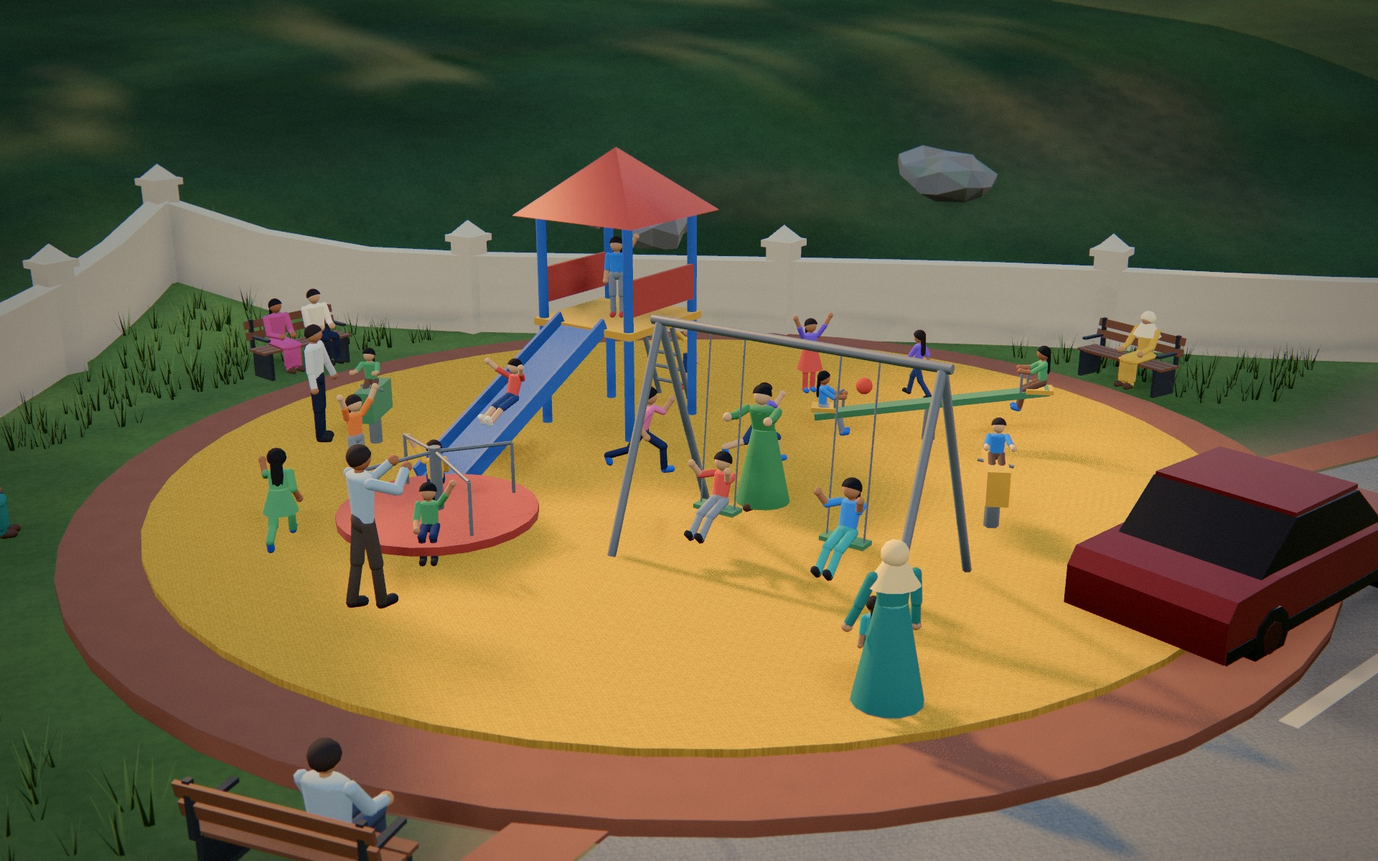
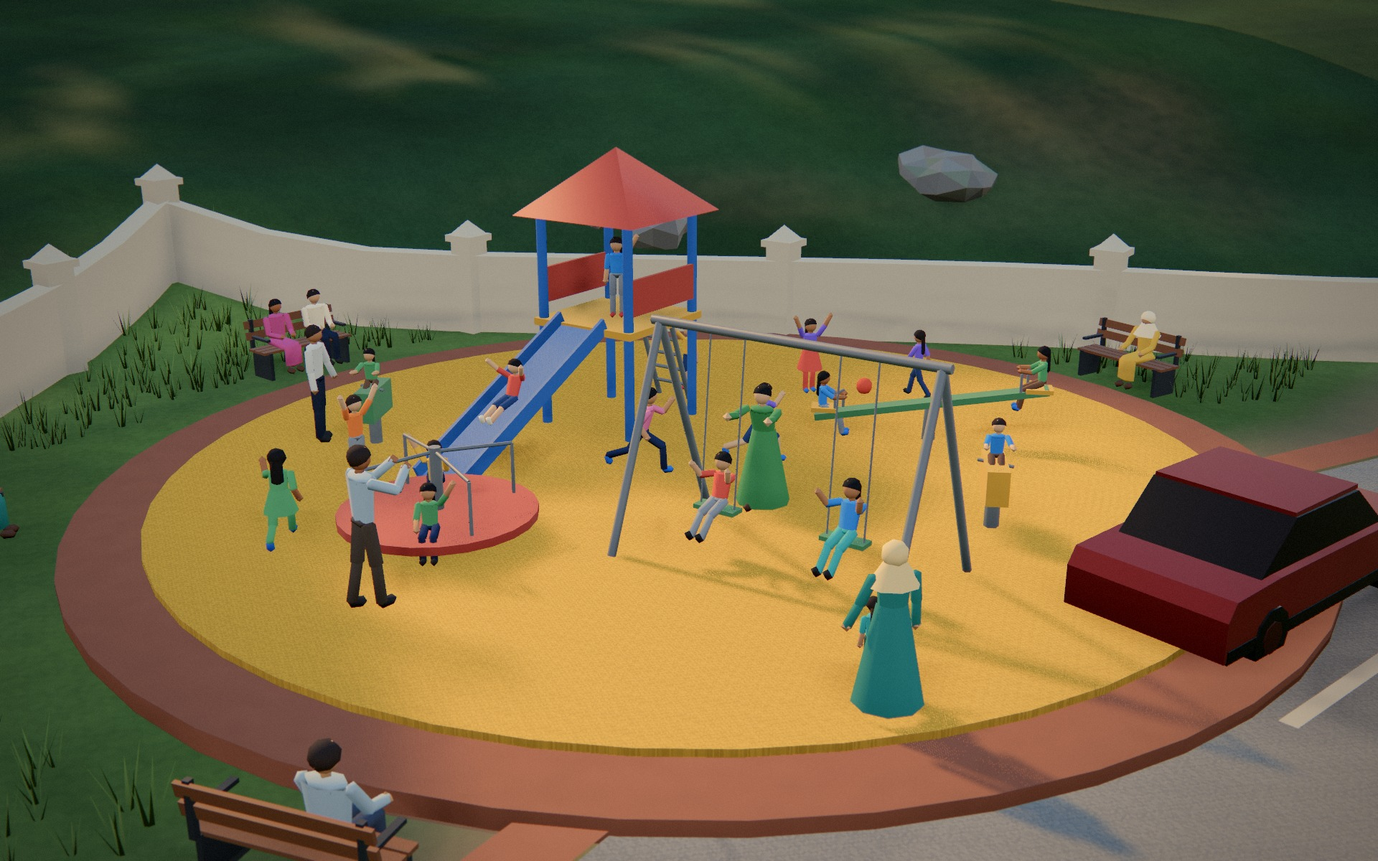
H3: make the people figures light
- people.js: limbs are five-sided spindles (20 triangles) instead of
  capsules; smaller spheres for heads, hair and scarves; octahedron
  hands; open-ended skirts and trunks.
- Far figures (seated guests on the upper tiers and walkway benches)
  drop hands, feet, neck and shoulder piece: about 250 triangles each.
- Legs hidden under a dress are no longer built.
- Lighter flower arch, flat petals, fewer segments on the bride's
  veil, train, trim and bouquet.
- Positions rounded to the millimetre; each place is stored indexed.
- 334,000 -> 38,026 triangles; about 343 KB gzipped once H4 drops the
  stored normals at export (accepted in place of 150 KB, Decision 6).
- people-preview: prints triangles, vertices and the download cost.
- Both approval images re-rendered; Plan 4 has the H3 notes.

diff --git a/src/model/people.js b/src/model/people.js
@@ -1,12 +1,16 @@
 import * as THREE from 'three';
 import { FEATURES, PADS, toY } from './layout.js';
-import { merge, prep, paint, mulberry32 } from './geom.js';
+import { merge, prep, paint, mulberry32, mergeVertices } from './geom.js';
 
 /**
  * People, for life and scale: children at the play equipment (with a few parents), and a wedding in the
  * amphitheatre (bride and groom on the stage, family beside them, guests on the tiers).
- * Each figure is posed from a few joint angles and built from capsules; all figures of one place are merged
- * into a single vertex-coloured mesh. Local frame of a figure: feet at y = 0, facing +Z.
+ * Each figure is posed from a few joint angles and built from low-poly parts (five-sided spindles for limbs, small
+ * spheres for heads); all figures of one place are merged into one indexed, vertex-coloured mesh.
+ * Local frame of a figure: feet at y = 0, facing +Z.
+ *
+ * Weight (Plan 4, H3): a near figure is about 400 triangles, a far one (`far: true`, seated guests on the upper tiers)
+ * about 250: far figures have no hands, feet or neck and four-sided limbs.
  */
 const SKIN = [0xc68e63, 0xb57a50, 0xd3a077, 0xa9683f, 0xddb08a];
 const HAIR = [0x17120f, 0x241a14, 0x2e2018, 0x0f0d0c];
@@ -21,13 +25,29 @@ const pick = (rand, list) => list[Math.floor(rand() * list.length)];
 const part = (g, color) => paint(prep(g), color);
 const Y = new THREE.Vector3(0, 1, 0);
 
-/** Capsule from a to b (arrays), radius r; sx widens it sideways (for torsos). */
-function limb(a, b, r, color, sx = 1, sz = 1) {
-  return span(a, b, (len) => new THREE.CapsuleGeometry(r, len, 2, 7), color, sx, sz);
+/**
+ * Spindle along Y: an n-sided tube of length len with a low point at each end (r * 0.75 beyond the end), smooth
+ * normals. 4n triangles: the cheap stand-in for a capsule (a three.js capsule with the fewest segments is 50).
+ */
+function spindle(r, len, n) {
+  const pos = [0, -len / 2 - r * 0.75, 0], idx = [];
+  for (const y of [-len / 2, len / 2]) for (let i = 0; i < n; i++) { const t = (i / n) * Math.PI * 2; pos.push(r * Math.sin(t), y, r * Math.cos(t)); }
+  pos.push(0, len / 2 + r * 0.75, 0);
+  const top = 2 * n + 1, B = (i) => 1 + (i % n), T = (i) => 1 + n + (i % n);
+  for (let i = 0; i < n; i++) idx.push(0, B(i + 1), B(i), B(i), B(i + 1), T(i + 1), B(i), T(i + 1), T(i), top, T(i), T(i + 1));
+  const g = new THREE.BufferGeometry();
+  g.setAttribute('position', new THREE.Float32BufferAttribute(pos, 3));
+  g.setIndex(idx);
+  g.computeVertexNormals(); // while still indexed, so the shading stays smooth after prep()
+  return g;
 }
-/** Tapered trunk from a (radius ra) to b (radius rb): chests and waists. */
-function trunk(a, b, ra, rb, color, sx = 1, sz = 1) {
-  return span(a, b, (len) => new THREE.CylinderGeometry(rb, ra, len, 9, 1), color, sx, sz);
+/** Limb from a to b (arrays), radius r, n sides; sx / sz widen it (for hips, laps and hair). */
+function limb(a, b, r, color, sx = 1, sz = 1, n = 5) {
+  return span(a, b, (len) => spindle(r, len, n), color, sx, sz);
+}
+/** Tapered trunk from a (radius ra) to b (radius rb): chests and waists. Open ends unless closed (far figures). */
+function trunk(a, b, ra, rb, color, sx = 1, sz = 1, closed = false) {
+  return span(a, b, (len) => new THREE.CylinderGeometry(rb, ra, len, 6, 1, !closed), color, sx, sz);
 }
 function span(a, b, make, color, sx, sz) {
   const A = new THREE.Vector3().fromArray(a), B = new THREE.Vector3().fromArray(b), d = B.clone().sub(A), len = d.length();
@@ -37,7 +57,8 @@ function span(a, b, make, color, sx, sz) {
   g.translate((A.x + B.x) / 2, (A.y + B.y) / 2, (A.z + B.z) / 2);
   return part(g, color);
 }
-const ball = (c, r, color, s = [1, 1, 1]) => part(new THREE.SphereGeometry(r, 10, 8).scale(...s).translate(...c), color);
+const ball = (c, r, color, s = [1, 1, 1], w = 6, h = 4) => part(new THREE.SphereGeometry(r, w, h).scale(...s).translate(...c), color);
+const gem = (c, r, color) => part(new THREE.OctahedronGeometry(r, 0).translate(...c), color); // 8 triangles: hands, small flowers
 
 const POSES = {
   stand: {},
@@ -66,11 +87,12 @@ const POSES = {
 
 /**
  * One figure. o: { h, pose, skin, hair, top, bottom, shoes, sleeves ('short' | 'long'), skirt (hem radius, 0 = none),
- * skirtColor, scarf (colour), longHair, child, extras(parts, joints) }.
+ * skirtColor, scarf (colour), longHair, bun, female, child, far, extras(parts, joints) }.
  */
 function figure(o) {
   const H = o.h, p = { ...POSES.stand, ...(typeof o.pose === 'string' ? POSES[o.pose] : o.pose) };
-  const child = o.child, parts = [];
+  const child = o.child, far = !!o.far, parts = [], n = far ? 4 : 5;
+  const seg = (a, b, r, color, sx, sz) => limb(a, b, r, color, sx, sz, n);
   const headR = H * (child ? 0.082 : 0.066), limbR = H * (child ? 0.034 : 0.031);
   const thigh = H * 0.245, shin = H * 0.235, torsoLen = H * (child ? 0.27 : 0.29), hipW = H * 0.055, shoulderW = H * (child ? 0.105 : 0.118);
   const upper = H * 0.165, fore = H * 0.15;
@@ -84,41 +106,44 @@ function figure(o) {
   const longSkirt = o.skirt && !p.sit;
 
   // legs
+  const lap = o.skirt && p.sit && !child; // seated in a dress: one piece over the lap and shins (below) replaces the legs
   legs.forEach(([t, k], i) => {
     const x = (i ? 1 : -1) * hipW, s = t - k;
     const hip = [x, pelvisY, 0], knee = [x, hip[1] - thigh * Math.cos(t), thigh * Math.sin(t)];
     const ankle = [x, knee[1] - shin * Math.cos(s), knee[2] + shin * Math.sin(s)];
     const legColor = o.skirt ? (o.skirtColor ?? o.bottom) : o.bottom;
-    parts.push(limb(hip, knee, limbR * 1.35, legColor), limb(knee, ankle, limbR * 1.1, o.skirt && !o.child ? legColor : (o.shorts ? o.skin : legColor)));
+    if (!lap && !longSkirtHidesLegs(o, p)) parts.push(seg(hip, knee, limbR * 1.35, legColor), seg(knee, ankle, limbR * 1.1, o.skirt && !o.child ? legColor : (o.shorts ? o.skin : legColor)));
+    if (far) return;
     const toe = [x, ankle[1] + Math.sin(s) * H * 0.07 - limbR * 0.2, ankle[2] + Math.cos(s) * H * 0.07];
-    parts.push(limb([x, ankle[1] - limbR * 0.3, ankle[2]], toe, limbR * 1.05, o.shoes ?? 0x2a2622));
+    parts.push(limb([x, ankle[1] - limbR * 0.3, ankle[2]], toe, limbR * 1.05, o.shoes ?? 0x2a2622, 1, 1, 4));
   });
-  if (o.skirt && p.sit && !child) { // seated in a dress: one piece over the lap and down the shins, instead of two trouser legs
+  if (lap) {
     const [t, k] = legs[0], s = t - k, c = o.skirtColor ?? o.bottom;
     const knee = [0, pelvisY - thigh * Math.cos(t), thigh * Math.sin(t)], hem = [0, knee[1] - shin * 0.8 * Math.cos(s), knee[2] + shin * 0.8 * Math.sin(s)];
-    parts.push(limb([0, pelvisY, -limbR], knee, limbR * 1.5, c, 2.5, 1), limb(knee, hem, limbR * 1.35, c, 2.5, 1));
+    parts.push(seg([0, pelvisY, -limbR], knee, limbR * 1.5, c, 2.5, 1), seg(knee, hem, limbR * 1.35, c, 2.5, 1));
   }
-  if (longSkirt) { // dress or gown: a cone from the waist to the hem
+  if (longSkirt) { // dress or gown: a cone from the waist to the hem (open at both ends: the waist and the ground hide them)
     const top = pelvisY + H * 0.1, hem = o.skirtHem ?? H * 0.05, r = o.skirt;
-    parts.push(part(new THREE.CylinderGeometry(H * 0.085, r, top - hem, 14, 1).translate(0, (top + hem) / 2, r * 0.06), o.skirtColor ?? o.bottom));
+    parts.push(part(new THREE.CylinderGeometry(H * 0.085, r, top - hem, r > 0.4 ? 14 : 9, 1, true).translate(0, (top + hem) / 2, r * 0.06), o.skirtColor ?? o.bottom));
   }
 
   // torso, neck, head
   const waist = [0, pelvisY + H * 0.02, 0];
   const wide = child ? 1.3 : o.female ? 1.38 : 1.62, chest = [neck[0], neck[1] - H * 0.03, neck[2]];
-  parts.push(trunk(waist, chest, H * (child ? 0.064 : 0.058), H * 0.073, o.top, wide, 0.84));          // narrower at the waist
-  parts.push(ball(chest, H * 0.073, o.top, [wide, 0.5, 0.84]));                                           // rounded shoulders
-  parts.push(limb(pelvis, waist, H * 0.064, o.skirt ? (o.skirtColor ?? o.bottom) : o.bottom, o.female ? 1.55 : 1.35, 0.95));
+  parts.push(trunk(waist, chest, H * (child ? 0.064 : 0.058), H * 0.073, o.top, wide, 0.84, far));     // narrower at the waist
+  if (!far) parts.push(ball(chest, H * 0.073, o.top, [wide, 0.5, 0.84], 6, 3));                          // rounded shoulders
+  parts.push(seg(pelvis, waist, H * 0.064, o.skirt ? (o.skirtColor ?? o.bottom) : o.bottom, o.female ? 1.55 : 1.35, 0.95));
   const head = [0, neck[1] + headR * 1.25, neck[2] + headR * 0.12];
-  parts.push(limb(neck, [head[0], head[1] - headR * 0.5, head[2]], headR * 0.42, o.skin));
-  parts.push(ball(head, headR, o.skin, [0.92, 1.1, 0.98]));
+  if (!far) parts.push(limb(neck, [head[0], head[1] - headR * 0.5, head[2]], headR * 0.42, o.skin, 1, 1, 4));
+  parts.push(far ? ball(head, headR, o.skin, [0.92, 1.1, 0.98], 6, 4) : ball(head, headR, o.skin, [0.92, 1.1, 0.98], 7, 5));
+  const cap = (r, w, h, theta) => new THREE.SphereGeometry(r, w, h, 0, Math.PI * 2, 0, theta);
   if (o.scarf) { // head scarf: covers the hair and drapes over the shoulders
-    parts.push(part(new THREE.SphereGeometry(headR * 1.13, 12, 8, 0, Math.PI * 2, 0, 2.15).rotateX(-0.62).translate(head[0], head[1] + headR * 0.05, head[2] - headR * 0.06), o.scarf));
-    parts.push(part(new THREE.CylinderGeometry(headR * 0.95, shoulderW * 1.25, H * 0.13, 12, 1).scale(1, 1, 0.8).translate(neck[0], neck[1] - H * 0.02, neck[2]), o.scarf));
+    parts.push(part(cap(headR * 1.13, far ? 6 : 8, far ? 3 : 4, 2.15).rotateX(-0.62).translate(head[0], head[1] + headR * 0.05, head[2] - headR * 0.06), o.scarf));
+    parts.push(part(new THREE.CylinderGeometry(headR * 0.95, shoulderW * 1.25, H * 0.13, far ? 6 : 8, 1, true).scale(1, 1, 0.8).translate(neck[0], neck[1] - H * 0.02, neck[2]), o.scarf));
   } else {
-    parts.push(part(new THREE.SphereGeometry(headR * 1.07, 12, 8, 0, Math.PI * 2, 0, 1.75).rotateX(-0.5).translate(head[0], head[1] + headR * 0.08, head[2] - headR * 0.04), o.hair));
-    if (o.bun) parts.push(ball([0, head[1] + headR * 0.25, head[2] - headR * 0.95], headR * 0.5, o.hair));
-    else if (o.longHair) parts.push(limb([0, head[1], head[2] - headR * 0.75], [0, neck[1] - H * 0.12, neck[2] - H * 0.06], headR * 0.55, o.hair, 1.25, 0.6));
+    parts.push(part(cap(headR * 1.07, far ? 6 : 8, far ? 2 : 3, 1.75).rotateX(-0.5).translate(head[0], head[1] + headR * 0.08, head[2] - headR * 0.04), o.hair));
+    if (o.bun) parts.push(ball([0, head[1] + headR * 0.25, head[2] - headR * 0.95], headR * 0.5, o.hair, [1, 1, 1], 5, 3));
+    else if (o.longHair) parts.push(limb([0, head[1], head[2] - headR * 0.75], [0, neck[1] - H * 0.12, neck[2] - H * 0.06], headR * 0.55, o.hair, 1.25, 0.6, 4));
   }
 
   // arms
@@ -130,12 +155,25 @@ function figure(o) {
     const u = dir(sw + lean, 0), f = dir(sw + bend + lean, inward);
     const elbow = [sh[0] + u.x * upper, sh[1] + u.y * upper, sh[2] + u.z * upper];
     const wrist = [elbow[0] + f.x * fore, elbow[1] + f.y * fore, elbow[2] + f.z * fore];
-    parts.push(limb(sh, elbow, limbR * 1.05, o.top), limb(elbow, wrist, limbR * 0.9, o.sleeves === 'long' ? o.top : o.skin));
-    parts.push(ball(wrist, limbR * 1.05, o.skin));
+    parts.push(seg(sh, elbow, limbR * 1.05, o.top), seg(elbow, wrist, limbR * 0.9, o.sleeves === 'long' ? o.top : o.skin));
+    if (!far) parts.push(gem(wrist, limbR * 1.15, o.skin));
     hands.push(wrist);
   });
   o.extras?.(parts, { H, head, headR, neck, pelvisY, hands, shoulderW });
   return merge(parts);
+}
+
+/** A standing adult in a full-length dress: the cone hides the thighs and shins, so they are not built. */
+function longSkirtHidesLegs(o, p) { return o.skirt && !p.sit && !o.child && (o.skirtHem ?? o.h * 0.05) <= o.h * 0.06 && !p.lean && !p.legL; }
+
+/**
+ * Last step for one place: positions rounded to the millimetre (they compress far better in the model file and the
+ * error is invisible), then shared vertices merged so the geometry is stored indexed.
+ */
+function finish(geo) {
+  const a = geo.attributes.position.array;
+  for (let i = 0; i < a.length; i++) a[i] = Math.round(a[i] * 1000) / 1000;
+  return mergeVertices(geo);
 }
 
 /** Places a figure geometry: seat/foot point [x, y, z] and heading (yaw 0 = facing +Z). */
@@ -203,7 +241,7 @@ function playPeople(rand, benches) {
   put(list, kid(rand, 'run', { h: 1.22 }), [0.45, G, -0.75], 2.3);
   put(list, kid(rand, 'cheer', { h: 1.18 }), [-0.6, G, -3.9], 0.9);
   put(list, kid(rand, 'walk', { h: 1.1 }), [0.9, G, -4.6], -1.6);
-  list.push(part(new THREE.SphereGeometry(0.13, 12, 8).translate(0.15, G + 0.13, -4.3), 0xe8462f));
+  list.push(ball([0.15, G + 0.13, -4.3], 0.13, 0xe8462f, [1, 1, 1], 8, 5));
   // toddler holding a parent's hand, and a parent taking a photo
   put(list, woman(rand, 'holdDown'), [4.85, G, 4.1], -2.3);          // clear of the swing frame's leg
   put(list, kid(rand, 'reachUp', { h: 0.86 }), [4.5, G, 3.75], -2.3);
@@ -213,7 +251,7 @@ function playPeople(rand, benches) {
   benches.forEach((b, i) => {
     for (const [off, who] of seats[i % seats.length]) sitOnBench(list, who(rand, pick(rand, ['sit', 'sitLap', 'sitWave'])), b, off);
   });
-  return merge(list);
+  return finish(merge(list));
 }
 
 // ---------- wedding in the amphitheatre ----------
@@ -225,12 +263,13 @@ function weddingPeople(rand) {
     h: 1.6, pose: 'bouquet', skin: SKIN[2], hair: HAIR[0], top: IVORY, bottom: IVORY, sleeves: 'long', skirt: 0.52, skirtHem: 0.0, skirtColor: IVORY, scarf: 0xfbf7ee,
     extras(parts, j) {
       // veil down the back, train on the floor, gold trim at the hem and a bouquet in the hands
-      parts.push(part(new THREE.CylinderGeometry(j.headR * 0.9, 0.42, 1.25, 12, 1, true).scale(1, 1, 0.5).translate(0, j.head[1] - 0.58, j.head[2] - 0.2), 0xfdfaf2));
-      parts.push(part(new THREE.CylinderGeometry(0.3, 0.75, 0.05, 14).scale(1, 1, 1.5).translate(0, 0.03, -0.75), IVORY));
-      parts.push(part(new THREE.TorusGeometry(0.52, 0.02, 5, 20).rotateX(Math.PI / 2).translate(0, 0.04, 0.03), GOLD));
+      parts.push(part(new THREE.CylinderGeometry(j.headR * 0.9, 0.42, 1.25, 10, 1, true).scale(1, 1, 0.5).translate(0, j.head[1] - 0.58, j.head[2] - 0.2), 0xfdfaf2));
+      parts.push(part(new THREE.CylinderGeometry(0.3, 0.75, 0.05, 12, 1, true).scale(1, 1, 1.5).translate(0, 0.03, -0.75), IVORY));
+      parts.push(part(new THREE.CircleGeometry(0.3, 12).rotateX(-Math.PI / 2).scale(1, 1, 1.5).translate(0, 0.055, -0.75), IVORY));
+      parts.push(part(new THREE.TorusGeometry(0.52, 0.02, 3, 16).rotateX(Math.PI / 2).translate(0, 0.04, 0.03), GOLD));
       const b = [(j.hands[0][0] + j.hands[1][0]) / 2, j.hands[0][1] + 0.04, j.hands[0][2] + 0.05];
-      for (const [dx, dy, dz, c] of [[0, 0.03, 0, 0xd9304a], [0.06, 0, 0.02, 0xf4e9e2], [-0.06, 0, 0.02, 0xf07a9a], [0, -0.03, 0.05, 0xf4e9e2], [0.02, 0.06, 0.04, 0xf07a9a]]) parts.push(ball([b[0] + dx, b[1] + dy, b[2] + dz], 0.055, c));
-      parts.push(ball([b[0], b[1] - 0.06, b[2]], 0.07, 0x3d7a44));
+      for (const [dx, dy, dz, c] of [[0, 0.03, 0, 0xd9304a], [0.06, 0, 0.02, 0xf4e9e2], [-0.06, 0, 0.02, 0xf07a9a], [0, -0.03, 0.05, 0xf4e9e2], [0.02, 0.06, 0.04, 0xf07a9a]]) parts.push(gem([b[0] + dx, b[1] + dy, b[2] + dz], 0.06, c));
+      parts.push(gem([b[0], b[1] - 0.06, b[2]], 0.075, 0x3d7a44));
     },
   });
   put(list, bride, [-0.42, S, -1.9], Math.PI);
@@ -239,18 +278,18 @@ function weddingPeople(rand) {
     extras(parts, j) { // shirt front, tie and a buttonhole flower
       parts.push(part(new THREE.BoxGeometry(0.1, 0.3, 0.03).translate(0, j.neck[1] - 0.2, 0.105), 0xf7f5ef));
       parts.push(part(new THREE.BoxGeometry(0.035, 0.26, 0.035).translate(0, j.neck[1] - 0.2, 0.115), 0x8c1c2c));
-      parts.push(ball([-0.11, j.neck[1] - 0.13, 0.11], 0.03, 0xf4e9e2));
+      parts.push(gem([-0.11, j.neck[1] - 0.13, 0.11], 0.035, 0xf4e9e2));
     },
   });
   put(list, groom, [0.42, S, -1.9], Math.PI);
 
   // flower arch on the backdrop behind the couple, petals on the aisle
   const flowers = [0xf4e9e2, 0xf07a9a, 0xd9304a, 0xf6c7d2, 0x4f8f56];
-  for (let i = 0; i <= 40; i++) {
-    const t = i / 40, a = Math.PI * t, x = Math.cos(a) * 1.75, y = S + 0.2 + Math.sin(a) * 3.0;
-    for (let k = 0; k < 3; k++) list.push(ball([x + (rand() - 0.5) * 0.22, y + (rand() - 0.5) * 0.22, -0.42 + (rand() - 0.5) * 0.16], 0.09 + rand() * 0.06, pick(rand, flowers)));
+  for (let i = 0; i <= 38; i++) { // 20-triangle blooms, two at each step round the arch
+    const t = i / 38, a = Math.PI * t, x = Math.cos(a) * 1.75, y = S + 0.2 + Math.sin(a) * 3.0;
+    for (let k = 0; k < 2; k++) list.push(part(new THREE.IcosahedronGeometry(0.12 + rand() * 0.06, 0).translate(x + (rand() - 0.5) * 0.24, y + (rand() - 0.5) * 0.24, -0.42 + (rand() - 0.5) * 0.16), pick(rand, flowers)));
   }
-  for (let i = 0; i < 70; i++) list.push(part(new THREE.CylinderGeometry(0.045, 0.045, 0.012, 5).translate((rand() - 0.5) * 1.3, S + 0.01, -2.4 - rand() * 1.6), pick(rand, flowers)));
+  for (let i = 0; i < 70; i++) list.push(part(new THREE.CircleGeometry(0.045, 5).rotateX(-Math.PI / 2).translate((rand() - 0.5) * 1.3, S + 0.012, -2.4 - rand() * 1.6), pick(rand, flowers)));
 
   // family beside the couple, flower girls in front, a photographer
   put(list, woman(rand, 'stand', { scarf: 0xe6cf9a }), [-1.75, S, -1.6], Math.PI - 0.35);
@@ -273,7 +312,8 @@ function weddingPeople(rand) {
       const turned = rand() < 0.14 ? (rand() < 0.5 ? -0.6 : 0.6) : 0;        // a few are talking to a neighbour
       const yaw = Math.atan2(-x, -z - 0.57) + (rand() - 0.5) * 0.25 + turned; // towards the couple
       const q = rand(), pose = q < 0.24 ? 'sitClap' : q < 0.32 ? 'sitWave' : q < 0.52 ? 'sitLap' : q < 0.6 ? 'sitPhoto' : 'sit';
-      const g = rand() < 0.14 ? kid(rand, pose, { h: 1.05 + rand() * 0.25 }) : adult(rand, pose);
+      const far = i > 0; // the lowest tier is seen up close beside the couple; the others in the crowd
+      const g = rand() < 0.14 ? kid(rand, pose, { h: 1.05 + rand() * 0.25, far }) : adult(rand, pose, { far });
       put(list, g, [x, y, z], yaw);
     }
   }
@@ -286,9 +326,9 @@ function weddingPeople(rand) {
   const rb = f.r0 + f.tiers * f.tierDepth + f.walkway / 2;
   [24, 68, 112, 152].forEach((d, i) => {
     const t = (d * Math.PI) / 180, x = rb * Math.cos(t), z = -rb * Math.sin(t), b = { x, y: yw, z, yaw: Math.atan2(-x, -z) };
-    for (const off of i % 2 ? [-0.38, 0.38] : [0.3]) sitOnBench(list, adult(rand, pick(rand, ['sit', 'sitLap', 'sitClap'])), b, off);
+    for (const off of i % 2 ? [-0.38, 0.38] : [0.3]) sitOnBench(list, adult(rand, pick(rand, ['sit', 'sitLap', 'sitClap']), { far: true }), b, off);
   });
-  return merge(list);
+  return finish(merge(list));
 }
 
 /**

diff --git a/tools/people-preview.js b/tools/people-preview.js
@@ -9,6 +9,29 @@ const SHOTS = [
   { name: 'people-play-area', target: [-75, 8.3, -31.6], position: [-65.5, 13.8, -18], fov: 35 },
   { name: 'people-wedding', target: [-33.4, 5.4, 8.6], position: [-45.8, 17.6, -4.8], fov: 33 },
 ];
+/**
+ * Triangles, vertices and the download cost of a group, laid out the way the model files store it: positions
+ * float32, normals int8 and colours uint16 (tools/glb_quantize.py), indices uint16 or uint32, then gzip.
+ */
+async function measure(group) {
+  const chunks = [], rows = [];
+  let tris = 0, verts = 0;
+  group.traverse((o) => {
+    if (!o.isMesh) return;
+    const g = o.geometry, n = g.attributes.position.count, t = (g.index ? g.index.count : n) / 3;
+    tris += t; verts += n; rows.push(`${o.name} ${Math.round(t)}`);
+    chunks.push(new Float32Array(g.attributes.position.array));
+    const nr = g.attributes.normal?.array, cl = g.attributes.color?.array;
+    if (nr) { const q = new Int8Array(n * 4); for (let i = 0; i < n; i++) for (let k = 0; k < 3; k++) q[i * 4 + k] = Math.round(nr[i * 3 + k] * 127); chunks.push(q); }
+    if (cl) { const q = new Uint16Array(n * 4); for (let i = 0; i < n; i++) for (let k = 0; k < 3; k++) q[i * 4 + k] = Math.round(cl[i * 3 + k] * 65535); chunks.push(q); }
+    if (g.index) chunks.push(n < 65536 ? new Uint16Array(g.index.array) : new Uint32Array(g.index.array));
+  });
+  const blob = new Blob(chunks);
+  const gz = (await new Response(blob.stream().pipeThrough(new CompressionStream('gzip'))).arrayBuffer()).byteLength;
+  const kb = (b) => Math.round(b / 1024);
+  return { tris: Math.round(tris), verts, rawKB: kb(blob.size), gzKB: kb(gz), text: `${Math.round(tris)} triangles (${rows.join(', ')}), ${verts} vertices, ${kb(blob.size)} KB stored, ${kb(gz)} KB gzipped` };
+}
+
 const logEl = document.getElementById('log'), shotsEl = document.getElementById('shots');
 const log = (msg) => { logEl.textContent += `\n${msg}`; };
 const sleep = (ms) => new Promise((r) => setTimeout(r, ms));
@@ -54,9 +77,8 @@ async function run() {
   const people = buildPeople({ benches: benches.length ? benches : null });
   people.traverse((o) => { if (o.isMesh) { o.castShadow = true; o.receiveShadow = true; } });
   scene.add(people);
-  let tris = 0;
-  people.traverse((o) => { if (o.isMesh) tris += o.geometry.attributes.position.count / 3; });
-  log(`People added: ${Math.round(tris)} triangles`);
+  const m = await measure(people);
+  log(`People added: ${m.text}`);
 
   const target = new THREE.Vector3();
   async function shoot({ name, target: t, position, fov = 35 }) {
@@ -86,7 +108,7 @@ async function run() {
   const out = [];
   for (const s of SHOTS) out.push(await shoot(s));
   log(`Saved ${out.filter((o) => o.saved).length} of ${out.length} images to docs/previews/`);
-  window.__preview = { shoot, out, hero, people, benches };
+  window.__preview = { shoot, out, hero, people, benches, measure: () => measure(people) };
 }
 
 run().catch((err) => { log(`Failed: ${err.message}`); window.__preview = { error: String(err) }; console.error(err); });

diff --git a/docs/IMPLEMENTATION_PLAN_4.md b/docs/IMPLEMENTATION_PLAN_4.md
@@ -16,7 +16,7 @@ Goal: put people into the 3D model in two places, so the site feels alive and sh
 | H0 Preview | ✅ | Figures built in `src/model/people.js`; two approval images in `docs/previews/` (see the notes under H0) |
 | H1 Approve the look | ✅ | Stylised figures, attire and crowd as in the preview, arch and petals kept, always visible (see Decisions) |
 | H2 Fix and refine the figures | ✅ | Flaws fixed, figures refined, both images re-rendered (see the notes under H2) |
-| H3 Make them light | ⏳ | Cut from 334,000 triangles to about 45,000 or fewer |
+| H3 Make them light | ✅ | 334,000 → 38,000 triangles; about 343 KB to download once H4 drops the stored normals (see the notes under H3) |
 | H4 Put them in the model | ⏳ | Add the `People` group to the site build and the exported model files |
 | H5 Make them behave in the page | ⏳ | Shadows, phones, clicking, and nothing overlapping them |
 | H6 Gentle motion | 💤 | Swings, roundabout, clapping guests. Only if wanted |
@@ -28,7 +28,7 @@ Goal: put people into the 3D model in two places, so the site feels alive and sh
 - The people exist only in the preview tool. The website and the exported model files do not contain them yet.
 - The figures are stylised: capsule bodies, no faces, flat colours. They match the low-poly cars and buildings, but they are not photo-real.
 - Counts today: 26 figures in the play area (18 children, 8 adults: 3 standing, 5 on benches) and roughly 105 at the wedding (the couple, 7 more on the stage, 5 standing and 6 seated on benches on the top walkway, and the seated guests, who are placed at random and not counted exactly).
-- Weight today: about 334,000 triangles (290,000 before H2). The whole of `Structures` is 39,000, so this is far too heavy to ship as it is.
+- Weight today: about 38,000 triangles and 30,500 vertices after H3 (334,000 triangles after H2). Download cost about 343 KB gzipped once H4 drops the stored normals.
 - H0 to H2 are committed (`8c4fbe1` and later). Files: `src/model/people.js`, `tools/people-preview.html`, `tools/people-preview.js`, `docs/previews/`, and one save route in `serve.py`.
 
 ## Scope (hard rule)
@@ -94,9 +94,21 @@ File: `src/model/people.js` only. Target: **45,000 triangles or fewer in total, 
 
 **Done when:** the count is at or under the target and the images are still acceptable.
 
+**Done 2026-11-20.** Triangles 334,000 → 38,026 (play area 10,396, wedding 27,630); vertices 30,487.
+- **Limbs:** a five-sided spindle (20 triangles) replaces the three.js capsule (126 triangles at the old settings; 50 even at its lowest). Heads 7×5 sphere segments, hair and scarf caps 8×3 to 8×4, hands 8-triangle octahedra, feet four-sided, skirts and trunks open-ended (the waist and the ground hide the ends).
+- **Far figures** (`far: true`: seated guests on tiers 2 to 5, and the guests on the walkway benches): no hands, feet, neck or shoulder piece, four-sided limbs, closed trunk top. About 250 triangles each, against about 400 for a near figure. The lowest tier, the stage party and everyone in the play area stay near.
+- **Hidden parts not built:** seated women in a dress have no separate legs (the lap piece covers them); standing women in a full-length dress have no thighs or shins (the skirt cone covers them).
+- **Decoration:** the flower arch is 78 twenty-sided blooms (was 123 spheres of 160 triangles); petals are flat five-sided discs; the bride's veil, train, hem trim and bouquet use fewer segments.
+- **Storage:** positions are rounded to the millimetre and each place's mesh is merged into indexed geometry (`finish()` in `people.js`).
+- **Download cost, measured** with the layout the model files use (positions float32, normals int8, colours uint16, gzip): 419 KB as built; **343 KB** once the stored normals are dropped at export (added to H4 step 2). The whole page would go from 2,327 KB to about 2,670 KB, inside the 6,000 KB budget, and the people stream in after the first view with the details file.
+- **Size target replaced:** the 150 KB proposed for H3 was a guess before measuring; the owner accepted about 343 KB (Decision 6). Positions are now more than half of the file: they stay float32 because `tools/glb_quantize.py` does not quantize positions. Quantizing them (int16, with a de-quantizing scale on a child node, for these two meshes only) would cut roughly another 100 KB; it is not planned unless asked for.
+- **Look:** shading is more faceted, in keeping with the low-poly cars, rocks and buildings; the figures still read well at both preview distances and in close-ups. The flower arch is chunkier. Because the arch now draws fewer random numbers, the random colours after it changed: the two women beside the couple now wear red and pink, and guests' clothes are reshuffled. Counts and attire rules are unchanged.
+- **Tool:** `tools/people-preview.html` now prints triangles, vertices and the measured download cost; `window.__preview.measure()` repeats it.
+
 ### H4 Put them in the model
 1. `src/model/buildSite.js`: call `buildPeople()` and add the group to the root. Add `people` counts to `stats`.
 2. `tools/model-builder.js`: add `'People'` to the details part (`mountain-courtyard-details.glb`), so the first view of the site is not delayed. No new file, so `serve.py`, `config.js` and `validate-model.js` keep their three file names.
+   - At export, for the two `People_*` meshes only (as is already done for `Terrain`): remove the `normal` attribute, merge vertices again (`mergeVertices`: without normals far more of them are shared, 30,500 → 23,800), set `userData.recomputeNormals = true`, and put the original geometry back after the export. `loader.js` already rebuilds normals for meshes with that flag. Measured in H3: 419 KB → 343 KB gzipped.
 3. Re-export: with `serve.py` running, open `tools/model-builder.html?save`.
 4. Open the page and confirm the people appear in both places.
 
@@ -137,10 +149,11 @@ Only if wanted after seeing H5. It needs the moving figures as separate meshes, 
 posters, and this plan. Already added by H0: the preview tool, the `serve.py` save route and `docs/previews/`.
 
 ## Decisions
-All decided by the owner on 2026-11-14.
+All decided by the owner: 1 to 5 on 2026-11-14 (H1), 6 on 2026-11-20 (H3).
 
 1. **Figure style:** keep the stylised figures.
 2. **Wedding attire:** as shown in the preview. Bride in an ivory gown with veil and bouquet, groom in a navy suit, about half the women guests with a headscarf.
 3. **Crowd size:** as shown. Roughly 100 at the wedding and 27 in the play area.
 4. **Decoration:** keep both the flower arch and the petals.
 5. **Visibility:** people are always visible.
+6. **Download size:** about 343 KB gzipped for the people is accepted, in place of the 150 KB proposed before measuring. Quantizing positions to shrink it further is not planned.
